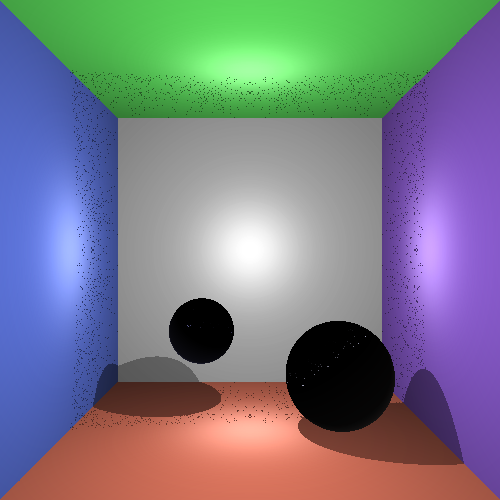
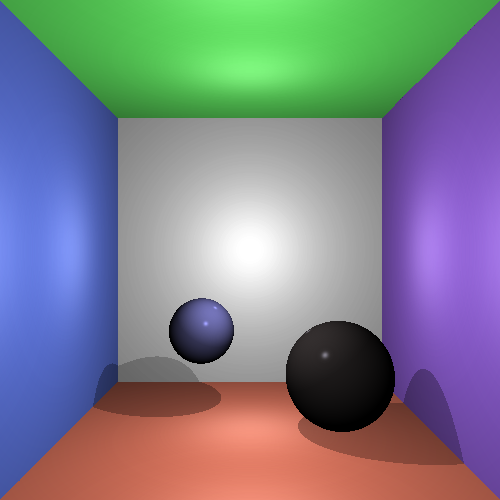
specular and diffuse light done

diff --git a/RayTracer/RayTracer.java b/RayTracer/RayTracer.java
@@ -322,7 +322,7 @@ public class RayTracer {
 		}
 	}
 	private Color calculateColor(Vector hitPoint, Surface surface){
-		Vector intersection;
+		Surface intersection;
 		Vector lightRay;
 		double realDistance;
 		double lightDistance;
@@ -330,36 +330,20 @@ public class RayTracer {
 		Color diffuseTemp;
 		float lightIntensity;
 		double nDotL;
+
+
 		//Iterating over all lights to see if they hit the given hitPoint directly
 		for(Light light : LightsList){
-			intersection = GetFirstIntersection(light.Position, hitPoint).getValue();
-			realDistance = calculateDistanceTowPoints(light.Position, hitPoint);
-			lightDistance = calculateDistanceTowPoints(light.Position, intersection);
-			if(realDistance == lightDistance){		//Nothing occludes the point of interest
-				lightIntensity = light.SpecularIntensity;
+			intersection = GetFirstIntersection(light.Position, hitPoint).getKey();
+			lightRay = Vector.CreateVectorFromTwoPoints(light.Position, hitPoint).NormalizeVector();
+			colorTotal = ColorArithmetics.plus(colorTotal, getSpecularLight(lightRay, surface, hitPoint, light));
+			colorTotal = ColorArithmetics.plus(colorTotal, getDiffuseLight(lightRay, surface, hitPoint, light));
+			if(intersection.equals(surface)){		//Nothing occludes the point of interest
+				continue;
 
-				lightRay = Vector.CreateVectorFromTwoPoints(light.Position, hitPoint).NormalizeVector();
-				/*
-				nDotL = surface.GetNormal(hitPoint).NormalizeVector().DotProduct(lightRay);	//performing N dot L
-				nDotL = nDotL*lightIntensity;
-				diffuseTemp = ColorArithmetics.mult(surface.GetSurfaceMaterial().DiffuseColor, (float)nDotL);
-				diffuseTotal = ColorArithmetics.plus(diffuseTotal, diffuseTemp);
-				*/
-				colorTotal = ColorArithmetics.plus(colorTotal, getSpecularLight(lightRay, surface, hitPoint, light));
-				colorTotal = ColorArithmetics.plus(colorTotal, getDiffuseLight(lightRay, surface, hitPoint, light, lightIntensity));
 			}
 			else{		//Point of interest is occluded
-				lightIntensity = 1-light.ShadowIntensity;
-
-				lightRay = Vector.CreateVectorFromTwoPoints(light.Position, hitPoint).NormalizeVector();
-				/*
-				nDotL = surface.GetNormal(hitPoint).NormalizeVector().DotProduct(lightRay);	//performing N dot L
-				nDotL = nDotL*lightIntensity;
-				diffuseTemp = ColorArithmetics.mult(surface.GetSurfaceMaterial().DiffuseColor, (float)nDotL);
-				diffuseTotal = ColorArithmetics.plus(diffuseTotal, diffuseTemp);
-				 */
-				colorTotal = ColorArithmetics.plus(colorTotal, getDiffuseLight(lightRay, surface, hitPoint, light, lightIntensity));
-				colorTotal = ColorArithmetics.mult(colorTotal, lightIntensity);
+				colorTotal = ColorArithmetics.mult(colorTotal, 1-light.ShadowIntensity);
 			}
 		}
 		return colorTotal;
@@ -376,22 +360,22 @@ public class RayTracer {
 	private Color getSpecularLight(Vector lightRay, Surface surface, Vector hitPoint, Light light){
 		Material material = surface.GetSurfaceMaterial();
 		//R = (2L*N)N - L
-		Vector normal = surface.GetNormal(hitPoint);
-		double dotProduct = lightRay.VectorsScalarMultiplication(2).DotProduct(normal);
+		Vector normal = surface.GetNormal(hitPoint).NormalizeVector();
+		double dotProduct = lightRay.DotProduct(normal);
+		dotProduct = dotProduct*2;
 		Vector R = normal.VectorsScalarMultiplication(dotProduct).VectorSubtraction(lightRay);
 
 		//Ispec=Ks Ipcosn(φ)=Ks Ip(R⋅V)n
-		double specularity = Math.pow(R.DotProduct(lightRay),material.PhongSpecularityCoefficient);
+		double specularity = Math.pow(Math.max(R.DotProduct(lightRay),0),material.PhongSpecularityCoefficient);
 
-		return ColorArithmetics.mult(material.SpecularColor, (float)specularity*light.SpecularIntensity);
+		return ColorArithmetics.mult(ColorArithmetics.mult(material.SpecularColor, (float)specularity*light.SpecularIntensity),light.LightColor);
 	}
 
-	private Color getDiffuseLight(Vector lightRay, Surface surface, Vector hitPoint, Light light, float lightIntensity){
+	private Color getDiffuseLight(Vector lightRay, Surface surface, Vector hitPoint, Light light){
 		double nDotL;
 		Vector normal = surface.GetNormal(hitPoint).NormalizeVector();
 		Color resColor = ColorArithmetics.mult(surface.GetSurfaceMaterial().DiffuseColor, light.LightColor);
 		nDotL = normal.DotProduct(lightRay);	//performing N dot L
-		nDotL = nDotL*lightIntensity;
 		resColor = ColorArithmetics.mult(resColor, Math.max((float)nDotL, 0));
 		return resColor;
 	}

diff --git a/RayTracer/DataObjects/Surfaces/Sphere.java b/RayTracer/DataObjects/Surfaces/Sphere.java
@@ -54,7 +54,7 @@ public class Sphere extends Surface {
 
     @Override
     public Vector GetNormal(Vector point) {
-        return Vector.CreateVectorFromTwoPoints(Position, point);
+        return Vector.CreateVectorFromTwoPoints(Position, point).VectorsScalarMultiplication(-1);
     }
 
     /*
